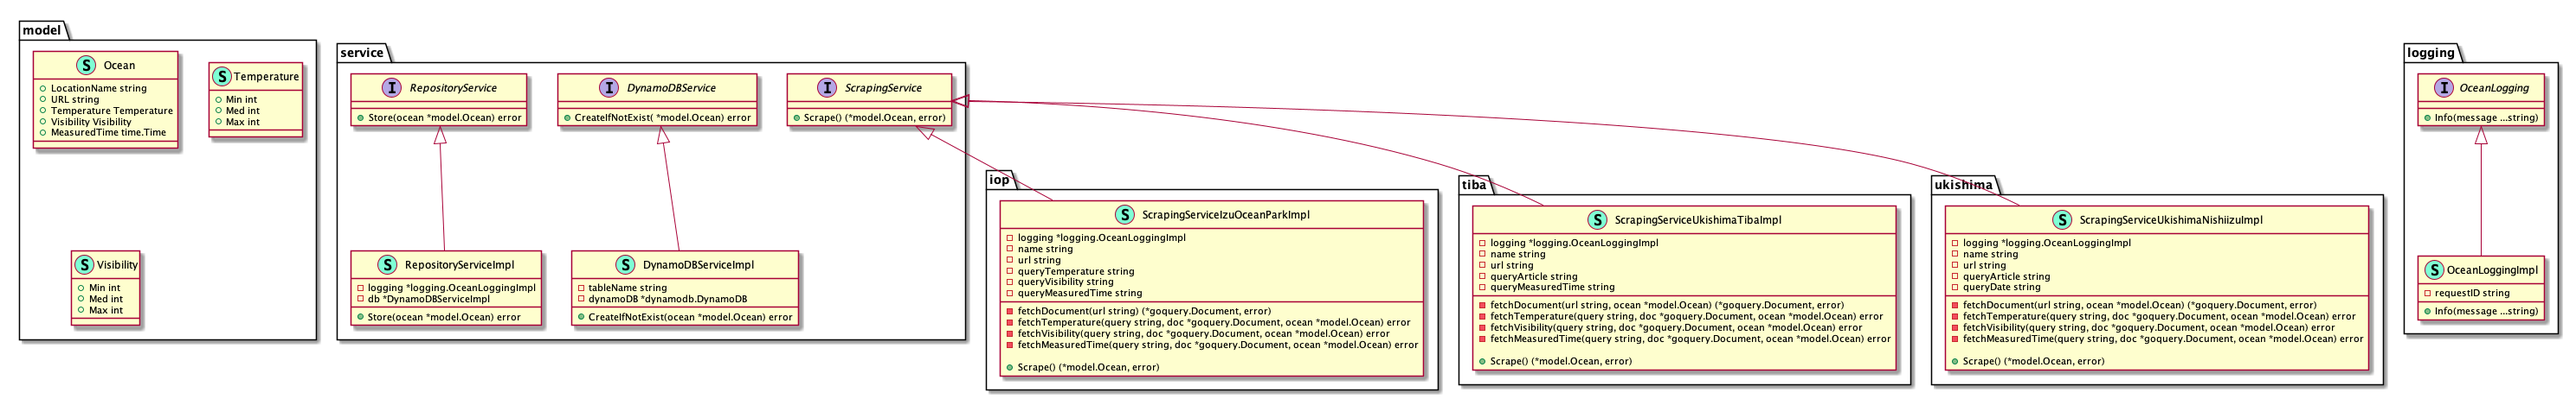
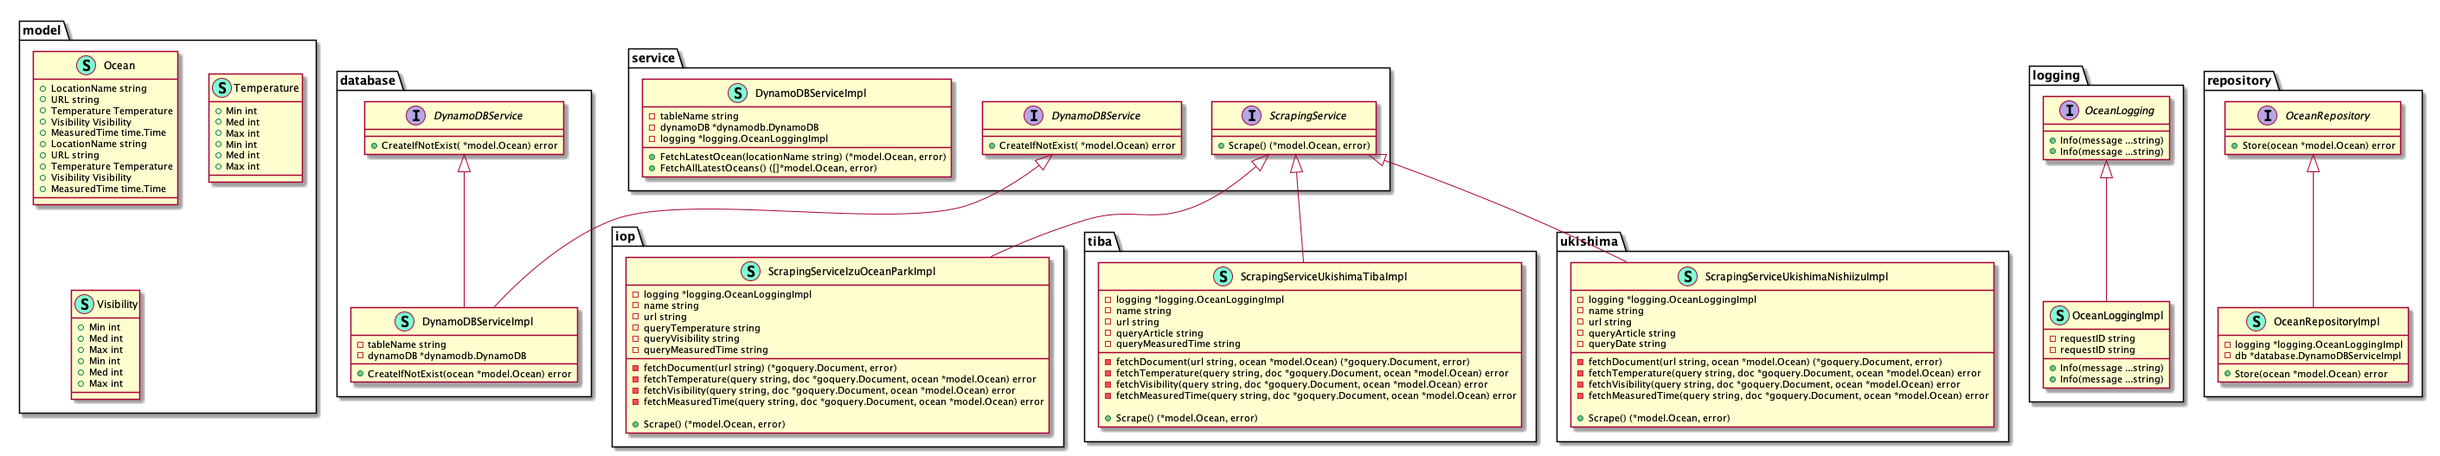
refactor: dynamodbをservice packageからdatabase packageへ移動

diff --git a/functions/scraping/repository/ocean.go b/functions/scraping/repository/ocean.go
@@ -1,9 +1,9 @@
 package repository
 
 import (
+	"scraping/database"
 	"scraping/logging"
 	"scraping/model"
-	"scraping/service"
 )
 
 // OceanRepository ...
@@ -14,14 +14,14 @@ type OceanRepository interface {
 // OceanRepositoryImpl ...
 type OceanRepositoryImpl struct {
 	logging *logging.OceanLoggingImpl
-	db      *service.DynamoDBServiceImpl
+	db      *database.DynamoDBServiceImpl
 }
 
 // NewOceanRepository ...
 func NewOceanRepository(logging *logging.OceanLoggingImpl) *OceanRepositoryImpl {
 	return &OceanRepositoryImpl{
 		logging: logging,
-		db:      service.NewDynamoDBService(),
+		db:      database.NewDynamoDBService(),
 	}
 }
 

diff --git a/functions/scraping/database/dynamodb.go b/functions/scraping/database/dynamodb.go
@@ -1,4 +1,4 @@
-package service
+package database
 
 import (
 	"os"
